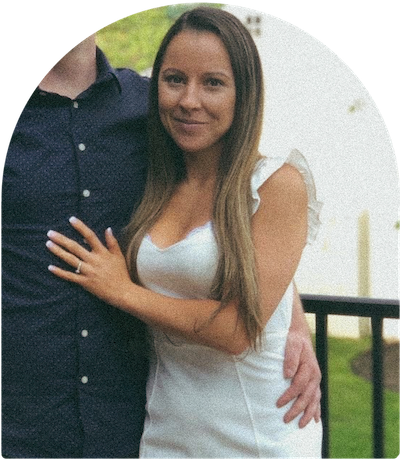
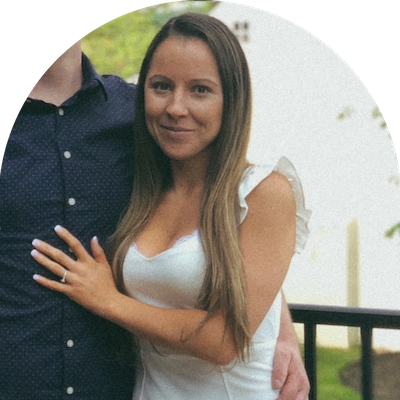
updating image sizing

diff --git a/style/style.css b/style/style.css
@@ -241,11 +241,6 @@ img {
     padding: 10px;
     filter: drop-shadow(5px 5px 5px #535353);
     width: 300px;
-}
-img#crew {
-    height:350px;
-}
-img#outfits {
     height: 300px;
 }
 figure {
@@ -271,9 +266,8 @@ footer {
     html, body {
         overflow-x:hidden !important;
     }
-    img#crew, img#outfits {
-        width:100% !important;
-        height: 100%;
+    img {
+        width: 100% !important;
     }
     div {
         font-size: 10px;
